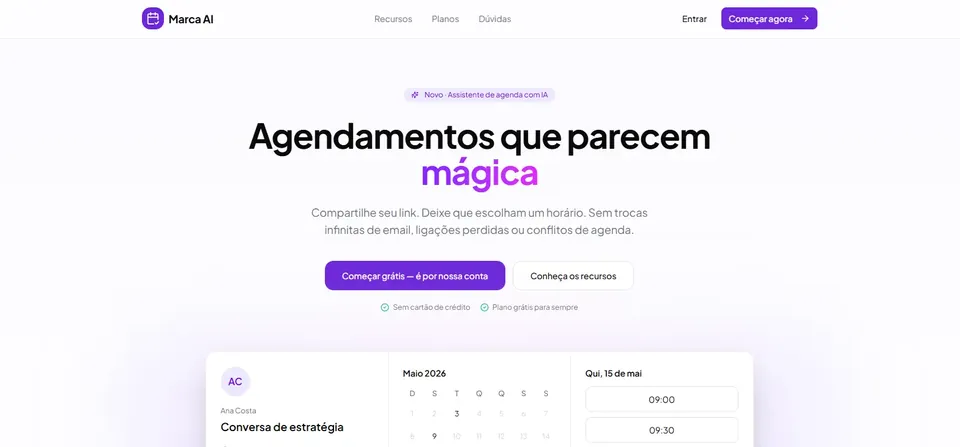
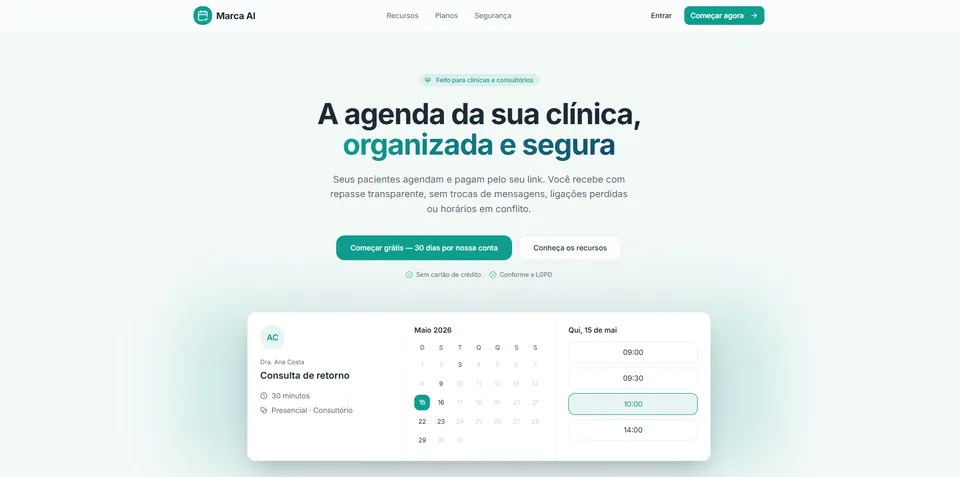
feat: update MarcaAí platform descriptions and features in English and Portuguese translations; remove outdated image

diff --git a/src/locales/pt.ts b/src/locales/pt.ts
@@ -242,32 +242,32 @@ export const translationsPT = {
       {
         title: "MarcaAí (Plataforma SaaS)",
         status: "Em desenvolvimento",
-        shortDescription: "Plataforma moderna de agendamentos B2B2C focada em HealthTech (clínicas) com páginas públicas customizáveis, gestão avançada de disponibilidade e cobranças integradas.",
-        fullDescription: "O MarcaAí é uma plataforma SaaS full stack projetada para simplificar a gestão de agendamentos de clínicas e profissionais de saúde no Brasil. O sistema permite a criação de páginas públicas premium com design clínico e limpo, onde os pacientes podem agendar consultas. A arquitetura foi construída em um monorepo simétrico, combinando um frontend em Next.js 16 e uma API robusta em C# (.NET 10) baseada em Clean Architecture. Conta com controle de disponibilidade flexível, sistema anti double-booking utilizando locks no banco de dados, gestão hierárquica de equipes e fluxo de trial de 30 dias. Oferece integrações essenciais: sincronização com Google Calendar, notificações via WhatsApp (Evolution API) e e-mails transacionais. O fluxo financeiro lida com assinaturas B2B via Stripe e cobranças antecipadas via Pix (Mercado Pago).",
+        shortDescription: "SaaS de HealthTech para clínicas e consultórios: os pacientes agendam e pagam pelo link do profissional, com repasse transparente e agenda sem conflitos. Frontend em Next.js e API própria em .NET.",
+        fullDescription: "O MarcaAí é um SaaS de HealthTech que resolve a rotina de agendamento e recebimento de clínicas e consultórios de ponta a ponta. É um monorepo com dois aplicativos independentes: o frontend em Next.js 16 (React 19, RSC) nunca fala direto com o banco — as leituras acontecem em Server Components e as escritas passam por um BFF (Route Handlers same-origin, com cookie HttpOnly e proteção CSRF) que repassa para a API .NET 10. Construída em Clean Architecture com EF Core, a API concentra toda a regra de negócio e é a fonte da verdade, persistindo em PostgreSQL no Supabase com migrations aplicadas no boot. O paciente paga no agendamento (PIX ou cartão via Stripe) e o repasse — bruto, taxa e líquido — fica sempre à vista. O produto oferece agenda sem conflitos por profissional (buffers e antecedência mínima), gestão de equipe da clínica com papéis e permissões (RBAC), tipos de consulta configuráveis (retorno, primeira consulta, avaliação) e conformidade com a LGPD, com 30 dias de teste grátis dos recursos premium.",
         features: [
-          "Páginas públicas premium e customizáveis, com foco em autoridade clínica para agendamento de consultas",
-          "Gestão B2B completa de equipes com controle de acesso por perfis (Owner, Admin, Member)",
-          "Controle avançado de disponibilidade, bloqueios e prevenção concorrente de double-booking",
-          "Sincronização bidirecional com Google Calendar e geração de links de reunião",
-          "Onboarding dinâmico com oferta de 30 dias de trial e formulários customizados",
-          "Assinaturas SaaS geridas via Stripe e cobranças antecipadas via Pix (Mercado Pago)",
-          "Notificações automáticas e lembretes via WhatsApp (Evolution API) e e-mails transacionais"
+          "Pacientes agendam e pagam pelo link do profissional (PIX ou cartão via Stripe)",
+          "Repasse financeiro transparente — bruto, taxa e líquido sempre à vista",
+          "Agenda sem conflitos por profissional, com buffers e antecedência mínima",
+          "Gestão de equipe da clínica com papéis e permissões (RBAC)",
+          "Tipos de consulta configuráveis (retorno, primeira consulta, avaliação) com duração, valor e modalidade",
+          "Arquitetura desacoplada: frontend Next.js (RSC) + BFF que consome a API própria em .NET (fonte da verdade)",
+          "Sessão segura com cookie HttpOnly e proteção CSRF; conformidade com a LGPD e 30 dias de teste grátis"
         ],
-        tags: ["Next.js", ".NET 10", "C#", "Supabase", "HealthTech", "SaaS"],
+        tags: ["Next.js", ".NET 10", "C#", "Supabase", "HealthTech"],
         technologies: {
-          frontend: "Next.js 16 (App Router), React, TypeScript, Tailwind CSS, Zod, React Hook Form, Radix UI",
-          backend: "API em .NET 10 (C#), Clean Architecture",
-          database: "PostgreSQL (hospedado no Supabase)",
-          integration: "Stripe, Mercado Pago SDK, Google Calendar API, Evolution API (WhatsApp), Resend (React Email)",
-          automation: "Controle de concorrência no banco de dados, testes unitários com Vitest e CI/CD com GitHub Actions"
+          frontend: "Next.js 16 (App Router, RSC), React 19, TypeScript, Tailwind CSS v4, React Hook Form + Zod, Radix UI, Recharts",
+          backend: "API em .NET 10 (C#, Clean Architecture: Api/Application/Domain/Infrastructure) com EF Core (Npgsql)",
+          database: "PostgreSQL no Supabase (Session pooler), com migrations aplicadas no boot",
+          integration: "Pagamentos com Stripe (cartão + Elements) e PIX; BFF (Route Handlers) com cookie HttpOnly + CSRF",
+          automation: "Testes unitários e de integração com Vitest e E2E com Playwright; migrations idempotentes no boot"
         },
         images: ["../assets/marcaai.webp", "../assets/marcaai-dash.webp"],
-        githubUrlFront: "https://github.com/vLecaBR/marcaAi",
-        githubUrlBack: "https://github.com/vLecaBR/marcaAi",
+        githubUrlFront: "https://github.com/vLecaBR/marcaAi/tree/main/frontend",
+        githubUrlBack: "https://github.com/vLecaBR/marcaAi/tree/main/backend",
         liveUrl: "https://marca-ai-app.vercel.app",
         hosting: {
           frontend: "Vercel",
-          backend: "Render"
+          backend: "Render (Docker)"
         }
       },
       {

diff --git a/src/locales/en.ts b/src/locales/en.ts
@@ -241,28 +241,28 @@ export const translations = {
       {
         title: "MarcaAí (SaaS Platform)",
         status: "In development",
-        shortDescription: "A modern B2B2C HealthTech scheduling platform with customizable public pages, advanced availability management, double-booking prevention, and integrated payments for clinics.",
-        fullDescription: "MarcaAí is a full-stack SaaS platform designed to simplify appointment management for clinics and healthcare professionals in Brazil, eliminating long message exchanges. The system enables the creation of premium public pages with a clean, health-focused design where clients can book services. The robust architecture uses a symmetric monorepo with a Next.js 16 frontend and a .NET 10 C# API built on Clean Architecture principles. It features flexible availability control, a robust anti double-booking system using database locks, hierarchical team management, and 30-day trial flows. Essential integrations include Google Calendar sync, automated WhatsApp notifications, and transactional emails. The financial flow handles B2B subscriptions via Stripe and upfront appointment payments via Pix using Mercado Pago webhooks.",
+        shortDescription: "A HealthTech SaaS for clinics and practices: patients book and pay through the professional's link, with transparent payouts and a conflict-free schedule. Next.js frontend and a dedicated .NET API.",
+        fullDescription: "MarcaAí is a HealthTech SaaS that handles the scheduling and payment routine of clinics and medical practices end to end. It is a monorepo with two independent apps: the Next.js 16 frontend (React 19, RSC) never talks to the database directly — reads happen in Server Components and writes go through a BFF (same-origin Route Handlers with an HttpOnly cookie and CSRF protection) that forwards to the .NET 10 API. Built on Clean Architecture with EF Core, the API holds all business logic and is the source of truth, persisting to PostgreSQL on Supabase with migrations applied at boot. Patients pay at booking time (PIX or card via Stripe) and the payout breakdown — gross, fee, and net — is always visible. The product provides conflict-free scheduling per professional (buffers and minimum lead time), clinic team management with roles and permissions (RBAC), configurable appointment types (follow-up, first visit, evaluation), and LGPD compliance, with a 30-day free trial of premium features.",
         features: [
-          "Premium, health-focused public pages for listing and booking multiple clinical services",
-          "Complete B2B team management with role-based access control (Owner, Admin, Member)",
-          "Advanced availability control, blocks, and concurrent double-booking prevention",
-          "Two-way Google Calendar sync and meeting link generation",
-          "Dynamic onboarding with 30-day trial provision and custom booking forms",
-          "SaaS subscriptions managed via Stripe and upfront payments via Pix (Mercado Pago)",
-          "Automated notifications and reminders via WhatsApp (Evolution API) and transactional emails"
+          "Patients book and pay through the professional's link (PIX or card via Stripe)",
+          "Transparent financial payout — gross, fee, and net always visible",
+          "Conflict-free scheduling per professional, with buffers and minimum lead time",
+          "Clinic team management with roles and permissions (RBAC)",
+          "Configurable appointment types (follow-up, first visit, evaluation) with duration, price, and modality",
+          "Decoupled architecture: Next.js frontend (RSC) + BFF consuming the dedicated .NET API (source of truth)",
+          "Secure session with HttpOnly cookie and CSRF protection; LGPD compliance and a 30-day free trial"
         ],
-        tags: ["Next.js", ".NET 10", "C#", "Supabase", "HealthTech", "SaaS"],
+        tags: ["Next.js", ".NET 10", "C#", "Supabase", "HealthTech"],
         technologies: {
-          frontend: "Next.js 16 (App Router), React, TypeScript, Tailwind CSS, Zod, React Hook Form, Radix UI",
-          backend: ".NET 10 API (C#), Clean Architecture",
-          database: "PostgreSQL (hosted on Supabase)",
-          integration: "Stripe, Mercado Pago SDK, Google Calendar API, Evolution API (WhatsApp), Resend (React Email)",
-          automation: "Database-level concurrency control, unit tests with Vitest, and CI/CD pipelines via GitHub Actions"
+          frontend: "Next.js 16 (App Router, RSC), React 19, TypeScript, Tailwind CSS v4, React Hook Form + Zod, Radix UI, Recharts",
+          backend: ".NET 10 API (C#, Clean Architecture: Api/Application/Domain/Infrastructure) with EF Core (Npgsql)",
+          database: "PostgreSQL on Supabase (Session pooler), with migrations applied at boot",
+          integration: "Payments with Stripe (card + Elements) and PIX; BFF (Route Handlers) with HttpOnly cookie + CSRF",
+          automation: "Unit and integration tests with Vitest and E2E with Playwright; idempotent migrations at boot"
         },
         images: ["../assets/marcaai.webp", "../assets/marcaai-dash.webp"],
-        githubUrlFront: "https://github.com/vLecaBR/marcaAi",
-        githubUrlBack: "https://github.com/vLecaBR/marcaAi",
+        githubUrlFront: "https://github.com/vLecaBR/marcaAi/tree/main/frontend",
+        githubUrlBack: "https://github.com/vLecaBR/marcaAi/tree/main/backend",
         liveUrl: "https://marca-ai-app.vercel.app",
         hosting: {
           frontend: "Vercel",
